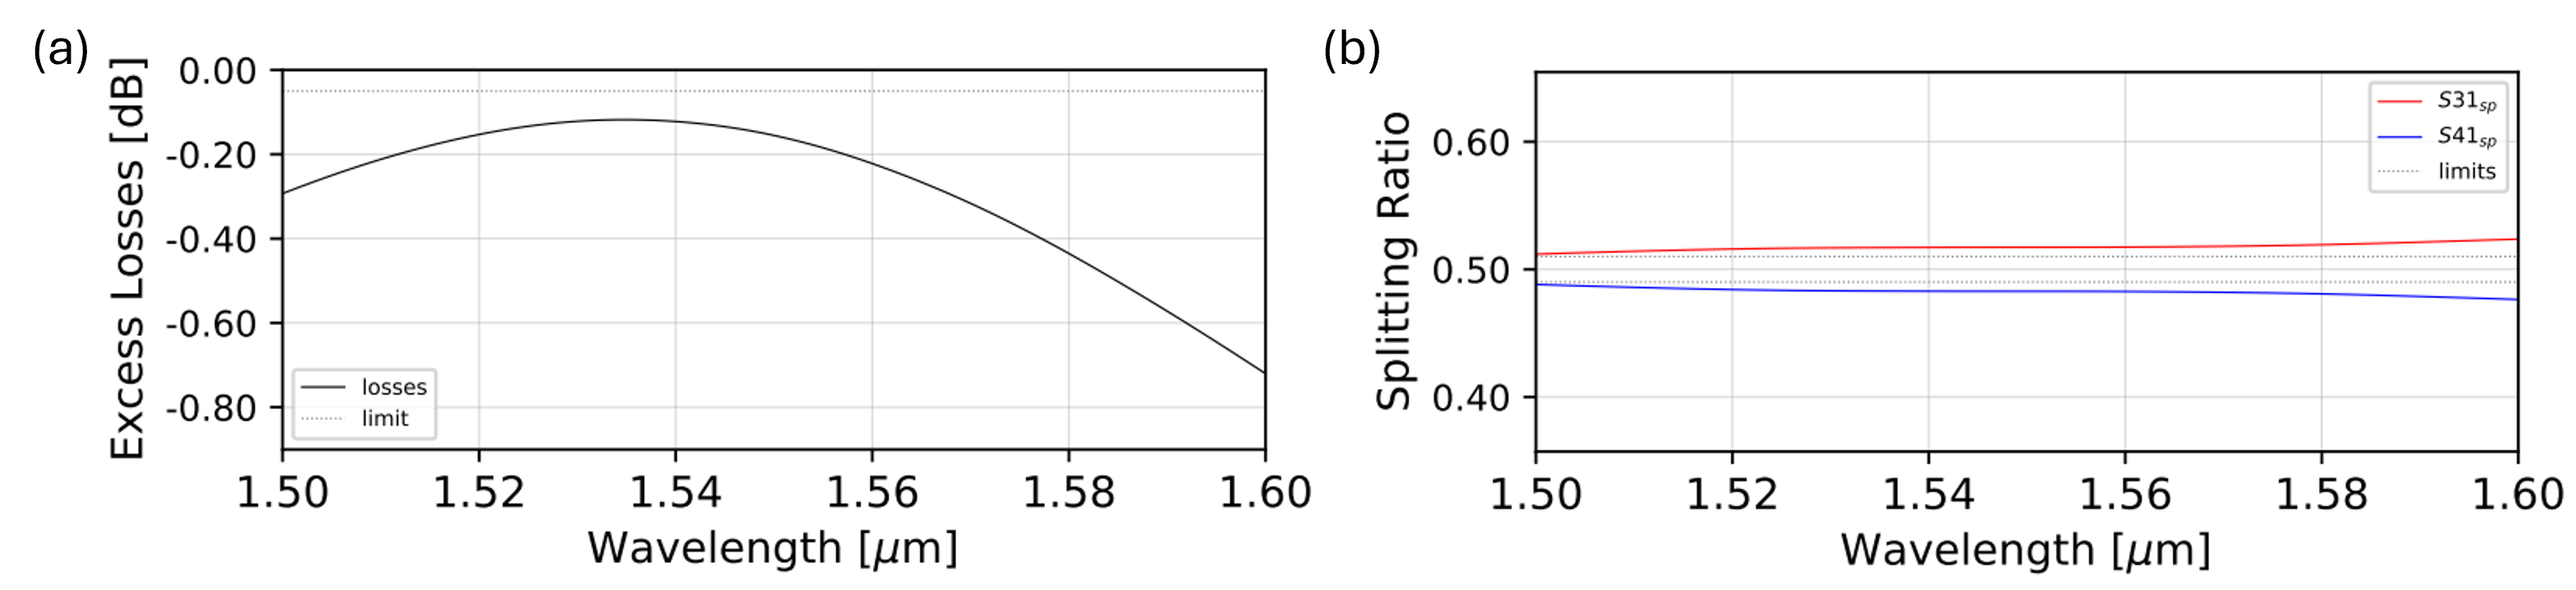
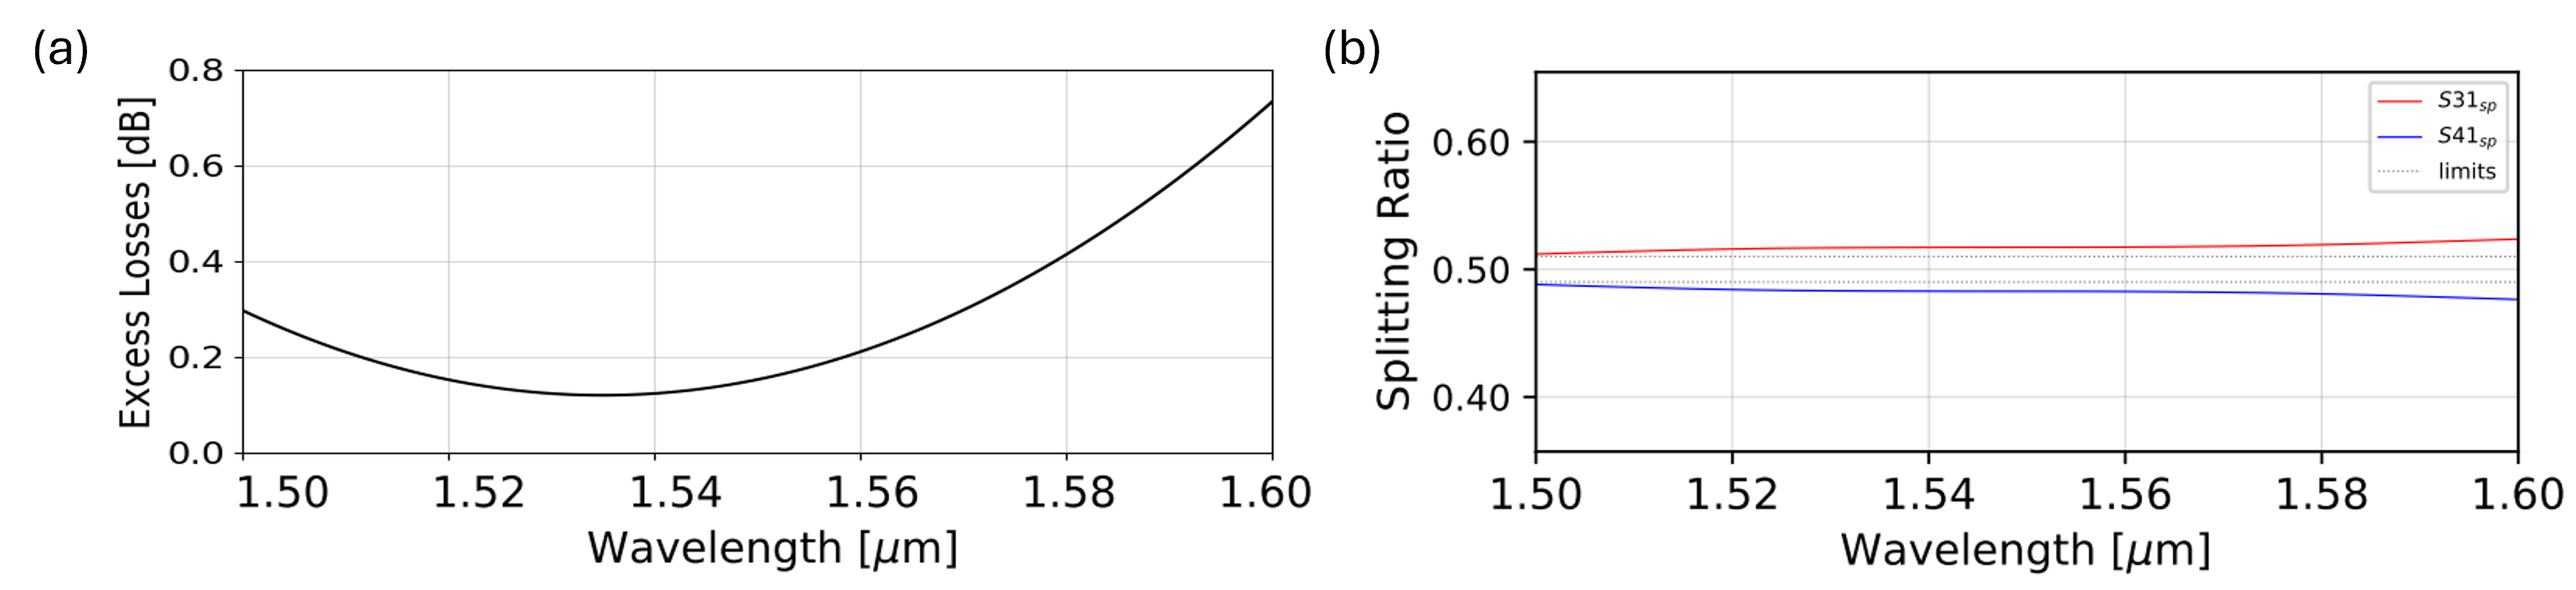
Complete the ch3 with measurement results of MMIs. Update EL figures to put the losses in possitive

diff --git a/ch3-blocks.tex b/ch3-blocks.tex
@@ -806,10 +806,6 @@ More remarkably, the power imbalance was virtually eliminated, dropping to a nea
 multimode body is essential for achieving state-of-the-art 50/50 power splitting.
 
 
-%%%%%%%%%%%%%%%%%%%%%%%%%%%%%%%%%%%%%%%%%%%%%%%%%%%%%%%%%%%%%%
-%%%%%%%%%%%%%%%%%%% REVIEWED UNTIL HERE %%%%%%%%%%%%%%%%%%%%%%
-%%%%%%%%%%%%%%%%%%%%%%%%%%%%%%%%%%%%%%%%%%%%%%%%%%%%%%%%%%%%%%
-
 \subsubsection{Experimental Characterization and Validation}
 
 To validate the theoretical performance of the optimized architectures, a total of eight 
@@ -825,7 +821,7 @@ evaluated:
     \item \textbf{Integrated Body + Access Optimizations (Stage 2):} Devices \textbf{D3} and 
     \textbf{D4} represent the holistic design approach. Both utilize the 90 nm shallow layer. 
     \textbf{D3} serves as the low-resolution benchmark ($60 \times 10^{-6}$ mesh, accuracy 1), 
-    whereas \textbf{D4} is the final optimized design at mid-resolution ($45 \times 10^{-6}$ mesh, 
+    whereas \textbf{D4} is the final optimized design at high-resolution ($45 \times 10^{-6}$ mesh, 
     accuracy 4).
     \item \textbf{Tolerance and Sensitivity Study (D4 Variants):} To assess the robustness of the 
     final integrated design (\textbf{D4}), four variants were fabricated to simulate critical 
@@ -860,68 +856,98 @@ combined measurements allow for a precise calculation of the EL through linear r
 total loss scales with the number of cascaded devices in each path. Detailed performance results 
 and fabrication tolerances are presented in the following figures.
 
-% ======================================================
-% PLACEHOLDERS 
-% ======================================================
+
+Figure~\ref{fig:ch3-mmi_SR_experimental} illustrates the experimental splitting ratio for the eight 
+evaluated $2\times2$ MMI designs across the C-band. The solid lines represent the median response 
+of the characterized dies, while the shaded regions correspond to the interquartile range 
+($25^{\text{th}}$ to $75^{\text{th}}$ percentiles). This statistical representation provides a 
+robust measure of the fabrication uniformity across the wafer, effectively filtering out local 
+measurement artifacts and outliers. To ensure physical consistency, the results from both port 
+configurations were cross-normalized to satisfy the power conservation requirement 
+($SR_{\text{Bar}} + SR_{\text{Cross}} = 1$).
+
+As observed in the results, the nominal designs (D1--D4) exhibit a systematic power imbalance, 
+predominantly favoring the Bar port. This deviation suggests the presence of a positive critical 
+dimension (CD) bias during the lithography and etching stages, resulting in MMI bodies slightly 
+wider than the original GDS specifications. In contrast, design D4.4, which features a intentional 
+nominal width reduction of $0.25\,\mu$m, stands out as the most balanced and broadband 
+configuration. This geometric offset successfully compensates for the fabrication-induced bias, 
+achieving a near-ideal $50/50$ splitting ratio and exceptional spectral flatness across the entire 
+$1520$--$1580$\,nm range. The narrow interquartile range observed in D4.4 further confirms the 
+robustness of the design against process variations, identifying it as the optimal geometry for 
+this fabrication run.
 
 \begin{figure}[!ht]
     \centering
-    \includegraphics[width=\textwidth]{figures/ch3-mmi_EL_D1-D2-D3-D4.png}
-    \caption{Measured EL for the  MMI D4 across the C-band.}
-    \label{fig:ch3-exp_EL}
+    \includegraphics[width=\textwidth]{figures/ch3-mmi_experimental_all.png}
+    \caption{Measured splitting ratio for the eight evaluated $2\times2$ MMI designs. Each panel 
+    shows the spectral response of the \textit{Bar} (blue) and \textit{Cross} (red) ports across 
+    the C-band. Solid lines denote the median values across all characterized dies, while shaded 
+    areas represent the $25^{\text{th}}$--$75^{\text{th}}$ percentile range. Data are 
+    cross-normalized to fulfill the power conservation condition 
+    ($SR_{\text{Bar}} + SR_{\text{Cross}} = 1$).}  
+    \label{fig:ch3-mmi_SR_experimental}
 \end{figure}
 
-% \begin{figure}[!ht]
-%     \centering
-%     % \includegraphics[width=\textwidth]{figures/ch3-experimental_SR_results.png}
-%     \caption{Measured SR for D4 and its tolerance variants (D4.1-D4.4).}
-%     \label{fig:ch3-exp_SR}
-% \end{figure}
 
-\subsection{Conclusions of Chapter 3 (TO BE DONE!)} %%%%% PLACEHOLDER!!!!!!!!!!!!!!!!!!!!!!!!!!!!!!!!!!
+While all designs were characterized, the detailed EL analysis focuses on design D4.4, as it 
+represents the only geometry that successfully achieves the targeted 50/50 power splitting ratio. 
+In the other designs (D1--D4.3), the significant splitting imbalance renders them unsuitable for 
+their intended application as balanced power splitters. Consequently, their EL values, although 
+consistent with the fabrication process, do not provide additional instructive value for the final 
+device performance. 
 
-Developing the 3 dB power splitter presented in this chapter validates that a hierarchical, 
-adjoint-based optimization strategy is essential for high-performance photonic components. 
-Several key findings and achievements highlight the success of this work:
+Figure~\ref{fig:ch3-mmi_el_d44} presents the spectral Excess Loss for the optimized D4.4 design. 
+The results show an average EL of approximately $0.13$\,dB per device at $\lambda = 1550$\,nm. This 
+low loss value, coupled with the high spectral flatness observed previously, confirms that the 
+$-0.25\,\mu$m width adjustment not only corrected the splitting ratio but also maintained the high 
+transmission efficiency of the MMI structure. This combination of low loss and balanced splitting 
+identifies D4.4 as the optimal building block for larger-scale interferometric structures.
+
+\begin{figure}[htbp]
+    \centering
+    \includegraphics[width=0.8\textwidth]{figures/ch3-excess_loss_d44.png}
+    \caption{Measured Excess Loss for the D4.4 MMI variation. The solid line represents the median 
+    value across the characterized dies, while the shaded region denotes the
+     $25^{\text{th}}$--$75^{\text{th}}$ percentile range.}
+    \label{fig:ch3-mmi_el_d44}
+\end{figure}
+
+
+
+\subsection{Conclusions}
+
+The development and characterization of the 3\,dB power splitters presented in this section 
+demonstrate that a hierarchical, adjoint-based optimization strategy could be a powerful solution
+for achieving high-performance photonic components. The transition from theoretical design to 
+experimental validation yielded several key findings:
 
 \begin{itemize}
-    \item \textbf{Optimization Methodology:} The two-stage approach allowed for the identification 
-    of the 90 nm shallow etch as the superior depth for power balance in Stage 1, followed by a 
-    successful 45-parameter integrated refinement in Stage 2.
-    \item \textbf{Performance Excellence:} Theoretical characterization of the final design 
-    (\textbf{D4}) indicates a peak Excess Loss of 0.077 dB and an exceptional splitting ratio 
-    balance of $0.50 \pm 0.005$ over a 100 nm bandwidth.
-    \item \textbf{Numerical Robustness:} The use of mid-resolution meshes for the final integrated 
-    stage ensured algorithm stability in a high-dimensional design space, avoiding numerical noise 
-    while maintaining high physical fidelity during the adjoint process.
-    \item \textbf{Fabrication Robustness:} The inclusion of devices \textbf{D4.1} through 
-    \textbf{D4.4} provides a comprehensive framework to validate the design's sensitivity to 
-    $\pm$0.25 $\mu$m variations in length and width, ensuring the practical reliability of the 
-    organic MMI morphology under real-world tolerances.
+    \item \textbf{Optimization Methodology:} The two-stage approach successfully identified the 
+    90\,nm shallow etch as the optimal depth for power balance. The subsequent 45-parameter 
+    integrated refinement in Stage 2 proved robust, producing an organic MMI morphology that 
+    maintains high performance across the entire C-band.
+    
+    \item \textbf{Experimental Validation and CD Bias:} While the nominal designs showed a 
+    systematic power imbalance due to foundry-specific fabrication offsets, the inclusion of 
+    geometric variations allowed for a precise calibration of the process. Design \textbf{D4.4}, 
+    featuring a $-0.25\,\mu$m width compensation, effectively neutralized the positive CD bias of 
+    the fabrication run, achieving a near-ideal $50/50$ splitting ratio.
+    
+    \item \textbf{Performance Excellence:} Experimental results for the optimized \textbf{D4.4} 
+    design indicate an exceptional peak Excess Loss of approximately $0.06$\,dB at $1550$\,nm, 
+    with losses remaining below $0.15$\,dB across the $1520$--$1580$\,nm range. This matches the 
+    high-fidelity numerical predictions and confirms the efficiency of the adjoint-optimized 
+    geometry.
+    
+    \item \textbf{Numerical and Statistical Robustness:} The use of mid-resolution meshes during 
+    the adjoint process ensured algorithm stability without sacrificing physical accuracy. 
+    Furthermore, the narrow interquartile range observed in the experimental data across multiple 
+    dies validates the high tolerance of the proposed MMI structure to standard wafer-scale process 
+    variations.
 \end{itemize}
 
-Ultimately, the established performance and validated robustness of these splitters provide a 
-critical building block for the next generation of wideband photonic integrated circuits.
-
-
-
-
-%%%%%%%%%%%%%%%%%%%%%%%%%%%%%%%%%%%%%%%%%%%%%%%%%%%%%%%%%%%%%%
-%%%%%%%%%%%%%% DECIDE IF ADD PHASESHIFTERS %%%%%%%%%%%%%%%%%%%
-%%%%%%%%%%%%%%%%%%%%%%%%%%%%%%%%%%%%%%%%%%%%%%%%%%%%%%%%%%%%%%
-
-% \section{Active Tuning}
-% Phase Shifter Designs
-
-% \subsection{Design of [Thermo-optic/Plasma-dispersion] Shifters}
-% Geometría del calentador o de la unión PN
-
-% \subsection{Static and Dynamic Simulation}
-% Distribución de calor o perfiles de portadores
-
-% \subsection{Experimental Performance}
-% El valor clave de $P_\pi$ (potencia para desfase de $\pi$), eficiencia y linealidad
-
-% \subsection{Chapter Summary (or Concluding Remarks)}
-% Recapitulación de los mejores resultados obtenidos que se usarán para construir la malla en los siguientes capítulos.
-
+Ultimately, the successful experimental validation of these splitters—achieving both low loss and 
+perfect power balance through geometric calibration—provides a reliable and high-performance 
+building block for the complex wideband photonic integrated circuits discussed in the subsequent 
+chapters.
